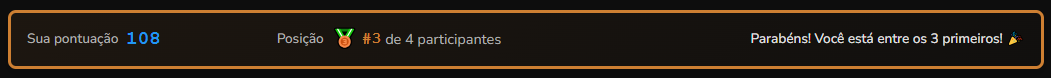
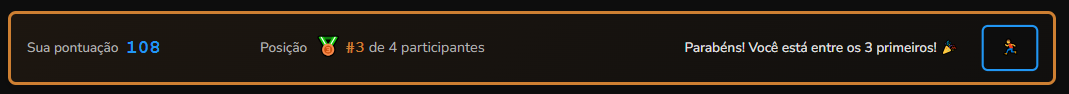
link para treino no ranking

Changed region(s): [[0.0, 0.1026, 1.0, 0.9231], [0.2436, 0.359, 0.4872, 0.6154], [0.0, 0.4103, 0.1522, 0.5897]]

diff --git a/frontend/src/components/rankings/InfoUsuario.jsx b/frontend/src/components/rankings/InfoUsuario.jsx
@@ -1,7 +1,114 @@
-import React from "react";
+import React, { useState } from "react";
+import { useNavigate } from "react-router-dom";
+import api from "../../services/api";
+import { getErrorMessage, logError } from "../../utils/errorHandler";
+import ContagemRegressiva from "../treino/ContagemRegressiva";
+import ModalEscolhaFormatoResposta from "../treino/ModalEscolhaFormatoResposta";
 import "./InfoUsuario.css";
 
-const InfoUsuario = ({ posicaoUsuario, totalParticipantes, ranking, isVisitante = false }) => {
+const InfoUsuario = ({
+  posicaoUsuario,
+  totalParticipantes,
+  ranking,
+  isVisitante = false,
+  operacaoId,
+  limiteId,
+  sistemaId,
+  sistemaTipo
+}) => {
+  const navigate = useNavigate();
+  const [iniciandoTreino, setIniciandoTreino] = useState(false);
+  const [mostrarContagem, setMostrarContagem] = useState(false);
+  const [mostrarModalFormato, setMostrarModalFormato] = useState(false);
+  const [dadosTreino, setDadosTreino] = useState(null);
+  const [formatoResposta, setFormatoResposta] = useState(null);
+
+  const handleIniciarTreino = async () => {
+    if (!operacaoId || !limiteId || !sistemaId) {
+      return;
+    }
+
+    setIniciandoTreino(true);
+
+    try {
+      const response = await api.post("/treinos/iniciar", {
+        operacao_id: operacaoId,
+        limite_id: limiteId,
+        sistema_id: sistemaId,
+      });
+
+      // Salvar dados do treino
+      setDadosTreino(response.data);
+
+      // Verificar se o sistema é romano, hexadecimal ou binário para mostrar modal de escolha
+      if (sistemaTipo === "romano" || sistemaTipo === "hexadecimal" || sistemaTipo === "binario") {
+        // Mostrar modal de escolha de formato
+        setMostrarModalFormato(true);
+      } else {
+        // Sistema não requer escolha, ir direto para contagem
+        setFormatoResposta("sistema"); // Padrão: usar o sistema escolhido
+        // Confirmar início do treino (incrementar quantidade) antes de mostrar contagem
+        try {
+          await api.post("/treinos/confirmar-inicio", {
+            treino_id: response.data.treino_id,
+          });
+        } catch (error) {
+          // Não bloquear a contagem regressiva se houver erro
+          logError("InfoUsuario - handleIniciarTreino confirmarInicio", error);
+        }
+        setMostrarContagem(true);
+      }
+    } catch (error) {
+      logError("InfoUsuario - handleIniciarTreino", error);
+      alert(getErrorMessage(error));
+      setIniciandoTreino(false);
+    }
+  };
+
+  const confirmarInicioTreino = async () => {
+    if (!dadosTreino?.treino_id) {
+      return;
+    }
+
+    try {
+      await api.post("/treinos/confirmar-inicio", {
+        treino_id: dadosTreino.treino_id,
+      });
+    } catch (error) {
+      // Não bloquear a contagem regressiva se houver erro
+      logError("InfoUsuario - confirmarInicioTreino", error);
+    }
+  };
+
+  const handleEscolherFormato = async (formato) => {
+    setFormatoResposta(formato);
+    setMostrarModalFormato(false);
+    // Confirmar início do treino (incrementar quantidade) antes de mostrar contagem
+    await confirmarInicioTreino();
+    // Após escolher formato, mostrar contagem regressiva
+    setMostrarContagem(true);
+  };
+
+  const handleCancelarFormato = () => {
+    setMostrarModalFormato(false);
+    setIniciandoTreino(false);
+    setDadosTreino(null);
+    setFormatoResposta(null);
+  };
+
+  const handleContagemTerminar = () => {
+    setMostrarContagem(false);
+    setIniciandoTreino(false);
+    // Navegar para tela de treino ativo com dados do treino e formato escolhido
+    navigate("/treino-ativo", {
+      state: {
+        treinoData: dadosTreino,
+        formatoResposta: formatoResposta || "sistema", // Padrão se não escolhido
+        sistemaTipo: sistemaTipo || "natural"
+      }
+    });
+  };
+
   // Encontrar dados do usuário no ranking (se estiver no top 100)
   const usuarioNoRanking = ranking?.find(
     (item) => item.posicao === posicaoUsuario
@@ -13,17 +120,42 @@ const InfoUsuario = ({ posicaoUsuario, totalParticipantes, ranking, isVisitante 
   // Se não tem posição, significa que não tem recorde
   if (posicaoUsuario === null || posicaoUsuario === undefined) {
     return (
-      <div className="info-usuario sem-recorde">
-        <div className="info-usuario-mensagem">
-          <p>Você ainda não tem recorde neste ranking (ou deabilitou no perfil para aparecer no ranking global).</p>
-          <p className="info-usuario-subtitulo">
-            {isVisitante
-              ? "Visitantes não aparecem no ranking. Faça login para participar e aparecer no ranking!"
-              : "Complete um treino para aparecer no ranking!"
-            }
-          </p>
+      <>
+        {mostrarModalFormato && (sistemaTipo === "romano" || sistemaTipo === "hexadecimal" || sistemaTipo === "binario") && (
+          <ModalEscolhaFormatoResposta
+            sistemaTipo={sistemaTipo}
+            onEscolher={handleEscolherFormato}
+            onCancelar={handleCancelarFormato}
+          />
+        )}
+        {mostrarContagem && (
+          <ContagemRegressiva onTerminar={handleContagemTerminar} />
+        )}
+        <div className="info-usuario sem-recorde">
+          <div className="info-usuario-mensagem">
+            <p>Você ainda não tem recorde neste ranking (ou deabilitou no perfil para aparecer no ranking global).</p>
+            <p className="info-usuario-subtitulo">
+              {isVisitante
+                ? "Visitantes não aparecem no ranking. Faça login para participar e aparecer no ranking!"
+                : "Complete um treino para aparecer no ranking!"
+              }
+            </p>
+            {!isVisitante && operacaoId && limiteId && sistemaId && (
+              <div className="info-usuario-botao-container">
+                <button
+                  className="info-usuario-botao-treino"
+                  onClick={handleIniciarTreino}
+                  disabled={iniciandoTreino}
+                  title="Iniciar treino com estas configurações"
+                  aria-label="Iniciar treino com estas configurações"
+                >
+                  {iniciandoTreino ? "..." : "🏃 Iniciar esse treino"}
+                </button>
+              </div>
+            )}
+          </div>
         </div>
-      </div>
+      </>
     );
   }
 
@@ -51,17 +183,28 @@ const InfoUsuario = ({ posicaoUsuario, totalParticipantes, ranking, isVisitante 
   const emojiPosicao = obterEmojiPosicao();
 
   return (
-    <div
-      className={`info-usuario ${estaNoTop3 ? "top-3" : ""}`}
-      style={
-        estaNoTop3
-          ? {
-              borderColor: corPosicao,
-              background: `linear-gradient(135deg, ${corPosicao}15 0%, ${corPosicao}05 100%)`,
-            }
-          : {}
-      }
-    >
+    <>
+      {mostrarModalFormato && (sistemaTipo === "romano" || sistemaTipo === "hexadecimal" || sistemaTipo === "binario") && (
+        <ModalEscolhaFormatoResposta
+          sistemaTipo={sistemaTipo}
+          onEscolher={handleEscolherFormato}
+          onCancelar={handleCancelarFormato}
+        />
+      )}
+      {mostrarContagem && (
+        <ContagemRegressiva onTerminar={handleContagemTerminar} />
+      )}
+      <div
+        className={`info-usuario ${estaNoTop3 ? "top-3" : ""}`}
+        style={
+          estaNoTop3
+            ? {
+                borderColor: corPosicao,
+                background: `linear-gradient(135deg, ${corPosicao}15 0%, ${corPosicao}05 100%)`,
+              }
+            : {}
+        }
+      >
       <div className="info-usuario-conteudo">
         <div className="info-usuario-coluna info-usuario-pontuacao">
           <span className="info-usuario-label">Sua pontuação</span>
@@ -89,8 +232,22 @@ const InfoUsuario = ({ posicaoUsuario, totalParticipantes, ranking, isVisitante 
             </span>
           </div>
         )}
+        {operacaoId && limiteId && sistemaId && (
+          <div className="info-usuario-coluna info-usuario-botao">
+            <button
+              className="info-usuario-botao-treino"
+              onClick={handleIniciarTreino}
+              disabled={iniciandoTreino}
+              title="Iniciar treino com estas configurações"
+              aria-label="Iniciar treino com estas configurações"
+            >
+              {iniciandoTreino ? "..." : "🏃"}
+            </button>
+          </div>
+        )}
       </div>
     </div>
+    </>
   );
 };
 

diff --git a/frontend/src/components/rankings/InfoUsuario.css b/frontend/src/components/rankings/InfoUsuario.css
@@ -46,6 +46,11 @@
   text-align: right;
 }
 
+.info-usuario-coluna.info-usuario-botao {
+  flex: 0 0 auto;
+  justify-content: flex-end;
+}
+
 .info-usuario-parabens-texto {
   color: var(--color-text);
   font-size: 0.85rem;
@@ -120,6 +125,43 @@
   opacity: 0.8;
 }
 
+.info-usuario-botao-container {
+  margin-top: 16px;
+  display: flex;
+  justify-content: center;
+}
+
+.info-usuario-botao-treino {
+  background: transparent;
+  border: 2px solid var(--color-border);
+  border-radius: 6px;
+  padding: 8px 16px;
+  font-size: 16px;
+  cursor: pointer;
+  transition: all 0.2s, border-color 0.3s ease;
+  display: flex;
+  align-items: center;
+  justify-content: center;
+  gap: 8px;
+  color: var(--color-text);
+}
+
+.info-usuario-botao-treino:hover {
+  border-color: #2196f3;
+  background: var(--color-background-dark);
+  transform: scale(1.05);
+}
+
+.info-usuario-botao-treino:active {
+  transform: scale(0.95);
+}
+
+.info-usuario-botao-treino:disabled {
+  opacity: 0.6;
+  cursor: not-allowed;
+  transform: none;
+}
+
 @media (max-width: 768px) {
   .info-usuario-conteudo {
     flex-direction: column;
@@ -146,6 +188,11 @@
 
   .info-usuario-parabens-texto {
     white-space: normal;
+  }
+
+  .info-usuario-coluna.info-usuario-botao {
+    width: 100%;
+    justify-content: flex-start;
   }
 }
 

diff --git a/frontend/src/pages/Rankings.jsx b/frontend/src/pages/Rankings.jsx
@@ -217,6 +217,12 @@ const Rankings = () => {
     return operacoes.find((op) => String(op.id) === operacaoSelecionada);
   }, [operacoes, operacaoSelecionada]);
 
+  // Encontrar o sistema selecionado
+  const sistemaAtual = useMemo(() => {
+    if (!sistemaSelecionado) return null;
+    return sistemas.find((s) => String(s.id) === sistemaSelecionado);
+  }, [sistemas, sistemaSelecionado]);
+
   // Filtrar sistemas disponíveis baseado no tipo da operação selecionada:
   // - Se operação for raiz, remover sistema "inteiro"
   // - Se operação for conversão, permitir apenas romano, binário ou hexadecimal
@@ -403,6 +409,10 @@ const Rankings = () => {
             totalParticipantes={totalParticipantes}
             ranking={ranking}
             isVisitante={usuario?.isVisitante || false}
+            operacaoId={operacaoSelecionada}
+            limiteId={limiteSelecionado}
+            sistemaId={sistemaSelecionado}
+            sistemaTipo={sistemaAtual?.tipo || null}
           />
 
           <TabelaRanking

diff --git a/frontend/src/pages/InstrucoesRankings.jsx b/frontend/src/pages/InstrucoesRankings.jsx
@@ -41,10 +41,15 @@ const InstrucoesRankings = () => {
             alt="Quadro mostrando a posição do usuário no ranking"
             className="instrucao-imagem"
           />
-          <div className="instrucao-destaque instrucao-importante">
-            <strong>Importante:</strong> visitantes não aparecem no ranking, pois seus recordes
-            não são salvos no sistema.
+          <div className="instrucao-destaque">
+            <strong>Dica:</strong> clicando no ícone de treino no canto direito,
+            você inicia um novo treino com as mesmas configurações
+              do ranking (mesma operação, limite e sistema).
           </div>
+            <div className="instrucao-destaque instrucao-importante">
+              <strong>Importante:</strong> visitantes não aparecem no ranking, pois seus recordes
+              não são salvos no sistema.
+            </div>
         </section>
 
         <section className="instrucao-secao">

diff --git a/site/instrucoes-rankings.html b/site/instrucoes-rankings.html
@@ -43,6 +43,11 @@
                     No topo da página há um quadro mostrando sua posição atual no ranking filtrado, junto com o total de participantes.
                 </p>
                 <img src="imagens/instrucoes/posicao.png" alt="Quadro mostrando a posição do usuário no ranking" class="instrucao-imagem">
+                <div class="instrucao-destaque">
+                    <strong>Dica:</strong> clicando no ícone de treino no canto direito,
+                    você inicia um novo treino com as mesmas configurações
+                    do ranking (mesma operação, limite e sistema).
+                </div>
                 <div class="instrucao-destaque instrucao-importante">
                     <strong>Importante:</strong> visitantes não aparecem no ranking, pois seus recordes
                     não são salvos no sistema.
